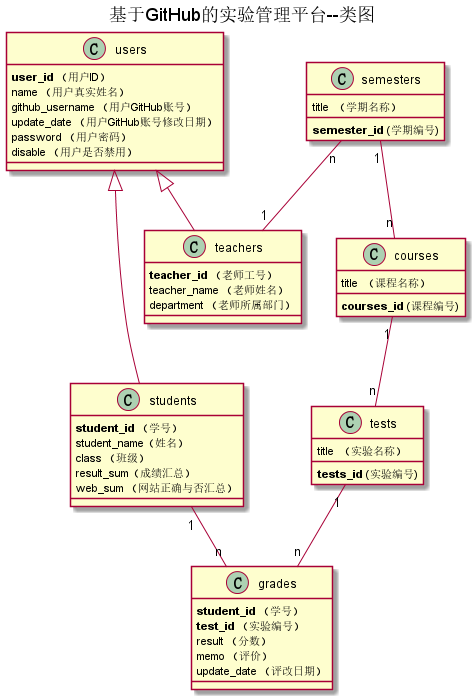
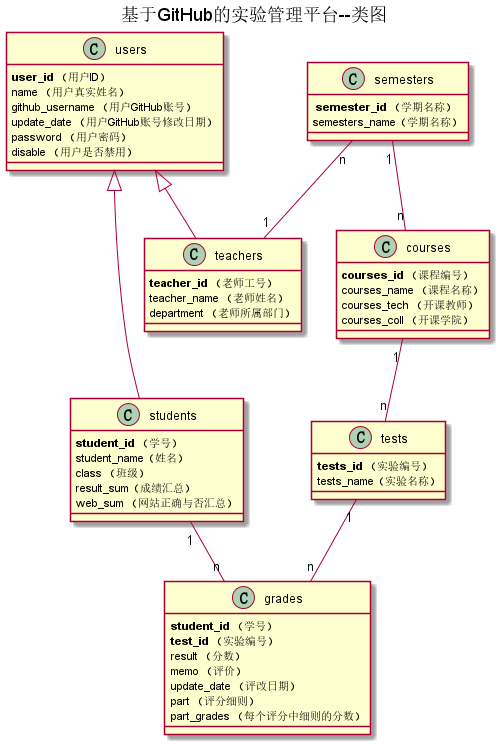
Final Yeah

Changed region(s): [[0.0, 0.0, 1.0, 1.0]]

diff --git a/test6/README.md b/test6/README.md
@@ -7,20 +7,26 @@
 |201510414323|软件(本)15-3|杨双友|![](./yangshuangyou.png)|
 
 ## 1. 概述
-    该基于Github的实验管理平台的主要作用是方便学生提交和老师批改作业，实现了去中心化。
-    老师可以在该平台查看每一个学生每一学期的每门课程,每一个实验的情况，并根据每一个部分的完成度打分，
-    学生之间也可以互相查看实验，但不能互相看到分数。
-    一个老师可以上多门课，每个老师只能维护老师自己的课程及成绩。
-    一人同学可以上多门课，每个同学只能查询同学自己的课程的实验成绩。
-    老师和同学都可以选多门课程，但必须是老师先选，学生后选。
-    每个实验的实验成绩细分为多个评分项，每个评分项对应各自的评分标准。
-    老师在批改实验的时候，对每个评分项进行评分并输入对应的文字评价，系统自动计算出所有评分项的成绩之和为该实验的总成绩。
-    
+    - 该基于Github的实验管理平台的主要作用是方便学生提交和老师批改作业，实现了去中心化。
+    - 老师可以在该平台查看每一个学生每一学期的每门课程,每一个实验的情况，并根据每一个部分的完成度打分，
+    - 学生之间也可以互相查看实验，但不能互相看到分数。
+    -一个老师可以上多门课，每个老师只能维护老师自己的课程及成绩。
+    - 一人同学可以上多门课，每个同学只能查询同学自己的课程的实验成绩。
+    -老师和同学都可以选多门课程，但必须是老师先选，学生后选。
+    -每个实验的实验成绩细分为多个评分项，每个评分项对应各自的评分标准。
+    -老师在批改实验的时候，对每个评分项进行评分并输入对应的文字评价，系统自动计算出所有评分项的成绩之和为该实验的总成绩。
+    - 基于GitHub的实验管理平台的作用是在线管理实验成绩的Web应用系统。学生和老师的实验内容均存放在GitHUB
+       页面上。
+    - 学生的功能主要有：一是设置自己的GitHub用户名，二是查询自己的实验成绩。学生的GitHub用户名是公开的，但成绩不公开。
+    - 老师的功能主要有：一是批改每个学生的成绩，二是查看每个学生的成绩。
+    - 老师和学生都能通过本系统的链接方便地跳转到学生的每个GitHUB实验目录，以便批改实验或者查看实验情况。
+    - 实验成绩按数字分数计算，每项实验的满分为100分，最低为0分。
+    - 系统自动计算每个学生的所有实验的平均分。
 ## 2. 系统总体结构
 ![](./jiegoutu.png) 
-## 3. 用例图设计 [源码](./src/Usecase.puml)
+## 3. 用例图设计 [源码](./Usecase.puml)
 ![](./Usecase.png)
-## 4. 类图设计 [源码](./src/class.puml)
+## 4. 类图设计 [源码](./class.puml)
 ![](./class.png)
 
 ## 5. 数据库设计
@@ -52,7 +58,7 @@
     |STUDENT_ID|VARCHAR2(50 BYTE)|主键|否| | | 学生的学号|
     |STUDENT_NAME|VARCHAR2(50 BYTE)| |否| | | 学生真实姓名|
     |USER_ID|NUMBER(8,0)|外键|是| |空| 学生的用户ID，USERS表的外键，为空表示还没有建立用户|
-    |CLASS|VARCHAR2(20 BYTE)| |否| | | 老师属于的部门|
+    |CLASS|VARCHAR2(20 BYTE)| |否| | | 学生班级|
     |RESULT_SUM|VARCHAR2(400 BYTE)|外键|是|空| | 成绩汇总（来自GRADES表），以逗号分开，第一个成绩是平均成绩,后面是每次实验的成绩，N表示未批改，平均分只计算已批改的。比如：“81.25,70,80,85,90,N”表示一共批改了4次，第5次未批改，4次的成绩分别是81.25,70,80,85,90,N，4次的平均分是81.25|
     |WEB_SUM|VARCHAR2(400 BYTE)| |是|空| | GitHub网址是否正确，用逗号分开，Y代表正确，N代表不正确。第1位代表总的GitHUB地址是否正确，第2位表示第1次实验的地址，第3位表示第2位实验地址，依此类推。比如：“Y,Y,Y,Y,Y,N”表示第5次实验地址不正确，其他地址正确|
  
@@ -82,7 +88,7 @@
     |COURSES_ID|NUMBER(6,0)|主键|否| | | 课程编号|
     |COURSES_NAME|VARCHAR2(100 BYTE)| |否| | | 课程名称|
     |COURSES_TEACH|VARCHAR2(100 BYTE)| |否| | | 开课教师|
-    |COURSES_COLLVARCHAR2(100 BYTE)| |否| | | 开课学院|
+    |COURSES_COLL|VARCHAR2(100 BYTE)| |否| | | 开课学院|
 - ### SEMESTERS表（学期表）
     
     |字段|类型|主键，外键|可以为空|默认值|约束|说明|
@@ -91,8 +97,10 @@
     |SEMESTER_NAME|VARCHAR2(100 BYTE)| |否| | | 学期名称|
 
 ## 6. 用例及界面详细设计
-    
-   - ### [“学生列表”用例](./用例_学生列表.md)
-   - ### [“查看成绩”用例](./用例_查看成绩.md)
-   - ### [“评定成绩”用例](./用例_评定成绩.md)
+  ### [学生列表_用例](./用例_学生列表.md) 
+  ### [查看成绩_用例](./用例_查看成绩.md)
+  ### [评定成绩_用例](./用例_评定成绩.md)
+  ### [登录_用例](./用例_登录.md)
+  ### [用户信息管理_用例](./用例_用户信息管理.md)
+  ### [选课_用例](https://github.com/yangshuangyou/is_analysis/blob/master/test6/%E7%94%A8%E4%BE%8B_%E9%80%89%E8%AF%BE%20.md)
 

diff --git a/test6/用例_用户信息管理.md b/test6/用例_用户信息管理.md
@@ -11,7 +11,7 @@
 |主流事件| |
 |备注| |
 
-## 2. 业务流程（顺序图） [源码](./src/sequence评定成绩.puml)
+## 2. 业务流程（顺序图） [源码](./sequence评定成绩.puml)
 ![sequence5](./sequence用户信息管理.png) 
 
 ## 3. 界面设计

diff --git a/test6/用例_学生列表.md b/test6/用例_学生列表.md
@@ -11,7 +11,7 @@
 |主流事件| |
 |备注| |
 
-## 2. 业务流程（顺序图） [源码](./src/sequence学生列表.puml)
+## 2. 业务流程（顺序图） [源码](./sequence学生列表.puml)
 ![sequence1](./sequence学生列表.png) 
 
 ## 3. 界面设计

diff --git a/test6/用例_查看成绩.md b/test6/用例_查看成绩.md
@@ -11,7 +11,7 @@
 |主流事件| |
 |备注| |
 
-## 2. 业务流程（顺序图） [源码](./src/sequence查看成绩.puml)
+## 2. 业务流程（顺序图） [源码](./sequence查看成绩.puml)
 ![sequence2](./sequence查看成绩.png) 
 
 ## 3. 界面设计

diff --git a/test6/用例_评定成绩.md b/test6/用例_评定成绩.md
@@ -11,7 +11,7 @@
 |主流事件| |
 |备注| |
 
-## 2. 业务流程（顺序图） [源码](./src/sequence评定成绩.puml)
+## 2. 业务流程（顺序图） [源码](./sequence评定成绩.puml)
 ![sequence3](./sequence评定成绩.png) 
 
 ## 3. 界面设计

diff --git a/test6/用例_选课 .md b/test6/用例_选课 .md
@@ -11,7 +11,7 @@
 |主流事件| |
 |备注| |
 
-## 2. 业务流程（顺序图） [源码](./src/sequence选课.puml)
+## 2. 业务流程（顺序图） [源码](./sequence选课.puml)
 ![sequence4](./sequence选课.png) 
 
 ## 3. 界面设计

diff --git a/test6/用例_登录.md b/test6/用例_登录.md
@@ -11,7 +11,7 @@
 |主流事件| |
 |备注| |
 
-## 2. 业务流程（顺序图） [源码](./src/sequence登录.puml)
+## 2. 业务流程（顺序图） [源码](/sequence登录.puml)
 ![sequence4](./sequence登录.png) 
 
 ## 3. 界面设计
